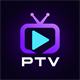
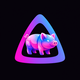
fix: finalize Phase 2 focus and branding

diff --git a/src/styles/global.css b/src/styles/global.css
@@ -9,8 +9,9 @@
   --ptv-text-secondary: #d8d0e9;
   --ptv-text-muted: #a99fbc;
   --ptv-purple: #8b5cf6;
+  --ptv-pink: #f052ad;
   --ptv-focus-violet: #c4a7ff;
-  --ptv-focus-cyan: #61dcff;
+  --ptv-focus-pink: #ff77c8;
   --ptv-success: #68e2ac;
   --ptv-warning: #ffd37a;
   --ptv-error: #ff969f;
@@ -91,9 +92,9 @@ button:disabled,
 .ptv-focusable.is-focused {
   outline: var(--ptv-focus-ring) solid var(--ptv-focus-violet);
   outline-offset: 3px;
-  border-color: var(--ptv-focus-cyan);
+  border-color: var(--ptv-focus-pink);
   background: rgba(117, 74, 212, 0.38);
-  box-shadow: 0 0 0 1px rgba(97, 220, 255, 0.45), 0 10px 28px rgba(77, 38, 140, 0.45);
+  box-shadow: 0 0 0 1px rgba(255, 119, 200, 0.45), 0 10px 28px rgba(77, 38, 140, 0.45);
   transform: scale(var(--ptv-focus-scale));
   z-index: 8;
 }
@@ -104,15 +105,15 @@ input:focus-visible,
 select:focus-visible {
   outline: var(--ptv-focus-ring) solid var(--ptv-focus-violet);
   outline-offset: 3px;
-  border-color: var(--ptv-focus-cyan);
-  box-shadow: 0 0 0 1px rgba(97, 220, 255, 0.45), 0 10px 28px rgba(77, 38, 140, 0.45);
+  border-color: var(--ptv-focus-pink);
+  box-shadow: 0 0 0 1px rgba(255, 119, 200, 0.45), 0 10px 28px rgba(77, 38, 140, 0.45);
   transform: scale(var(--ptv-focus-scale));
   z-index: 8;
 }
 
 .ptv-primary-action {
   border-color: rgba(212, 193, 255, 0.7);
-  background: linear-gradient(135deg, #8055e5, #6540bd);
+  background: linear-gradient(135deg, var(--ptv-purple), var(--ptv-pink));
   font-weight: 700;
 }
 
@@ -148,21 +149,19 @@ select:focus-visible {
   width: max-content;
 }
 
-.ptv-brand__play {
-  width: 0;
-  height: 0;
+.ptv-brand__logo {
+  width: 58px;
+  height: 58px;
   margin-right: 13px;
-  border-top: 14px solid transparent;
-  border-bottom: 14px solid transparent;
-  border-left: 22px solid var(--ptv-focus-cyan);
-  filter: drop-shadow(0 0 8px rgba(97, 220, 255, 0.38));
+  object-fit: contain;
+  filter: drop-shadow(0 0 9px rgba(255, 119, 200, 0.3));
 }
 
 .ptv-brand h1 {
   margin: 0;
-  font-size: 34px;
+  font-size: 30px;
   line-height: 1;
-  letter-spacing: 0.11em;
+  letter-spacing: 0.035em;
 }
 
 .ptv-topbar__nav {
@@ -200,7 +199,7 @@ select:focus-visible {
 .ptv-profile.is-current {
   color: var(--ptv-text-primary);
   background: rgba(139, 92, 246, 0.18);
-  box-shadow: inset 0 -3px 0 var(--ptv-focus-cyan);
+  box-shadow: inset 0 -3px 0 var(--ptv-focus-pink);
 }
 
 .ptv-topbar__utilities {
@@ -218,7 +217,7 @@ select:focus-visible {
   min-width: 52px;
   padding: 0;
   border-radius: 50%;
-  background: linear-gradient(135deg, rgba(97, 220, 255, 0.22), rgba(139, 92, 246, 0.42));
+  background: linear-gradient(135deg, rgba(139, 92, 246, 0.42), rgba(240, 82, 173, 0.34));
   font-weight: 800;
 }
 
@@ -257,7 +256,7 @@ select:focus-visible {
 }
 
 .ptv-eyebrow {
-  color: var(--ptv-focus-cyan);
+  color: var(--ptv-focus-pink);
   font-size: 18px;
   font-weight: 700;
   letter-spacing: 0.14em;
@@ -396,7 +395,7 @@ img.ptv-hero__art {
 .ptv-hero__art--fallback,
 .ptv-hero--loading {
   background:
-    radial-gradient(circle at 78% 32%, rgba(97, 220, 255, 0.15), rgba(97, 220, 255, 0) 28%),
+    radial-gradient(circle at 78% 32%, rgba(240, 82, 173, 0.16), rgba(240, 82, 173, 0) 28%),
     linear-gradient(120deg, #24133f, #0d0918 68%);
 }
 
@@ -593,8 +592,8 @@ img.ptv-hero__art {
 .ptv-card-placeholder {
   position: relative;
   background:
-    linear-gradient(145deg, rgba(97, 220, 255, 0.12), rgba(97, 220, 255, 0) 45%),
-    linear-gradient(135deg, #25173e, #3a2158 54%, #171025);
+    linear-gradient(145deg, rgba(240, 82, 173, 0.16), rgba(240, 82, 173, 0) 45%),
+    linear-gradient(135deg, #25173e, #55204e 54%, #171025);
 }
 
 .ptv-card-placeholder::after {
@@ -625,7 +624,7 @@ img.ptv-hero__art {
 
 .ptv-card-placeholder__type {
   bottom: 16px;
-  color: var(--ptv-focus-cyan);
+  color: var(--ptv-focus-pink);
   font-size: 16px;
   font-weight: 700;
   letter-spacing: 0.12em;
@@ -688,7 +687,7 @@ img.ptv-hero__art {
   display: block;
   height: 100%;
   border-radius: inherit;
-  background: linear-gradient(90deg, var(--ptv-purple), var(--ptv-focus-cyan));
+  background: linear-gradient(90deg, var(--ptv-purple), var(--ptv-pink));
 }
 
 .ptv-skeleton-row,
@@ -775,7 +774,7 @@ img.ptv-details__backdrop {
 
 .ptv-details__backdrop--fallback {
   background:
-    radial-gradient(circle at 76% 24%, rgba(97, 220, 255, 0.12), rgba(97, 220, 255, 0) 25%),
+    radial-gradient(circle at 76% 24%, rgba(240, 82, 173, 0.14), rgba(240, 82, 173, 0) 25%),
     linear-gradient(135deg, #25143f, #0c0816 66%);
 }
 
@@ -826,7 +825,7 @@ img.ptv-details__backdrop {
 }
 
 .ptv-image-placeholder span {
-  color: var(--ptv-focus-cyan);
+  color: var(--ptv-focus-pink);
   font-size: 34px;
   font-weight: 800;
   letter-spacing: 0.15em;
@@ -858,7 +857,7 @@ img.ptv-details__backdrop {
 }
 
 .ptv-details__genres {
-  color: var(--ptv-focus-cyan);
+  color: var(--ptv-focus-pink);
   font-size: 18px;
 }
 
@@ -925,9 +924,9 @@ img.ptv-details__backdrop {
 .ptv-filter-bar button.is-selected,
 .ptv-settings__categories button.is-selected,
 .ptv-diagnostics__tabs button.is-selected {
-  border-color: rgba(97, 220, 255, 0.55);
+  border-color: rgba(255, 119, 200, 0.58);
   background: rgba(139, 92, 246, 0.24);
-  box-shadow: inset 4px 0 0 var(--ptv-focus-cyan);
+  box-shadow: inset 4px 0 0 var(--ptv-focus-pink);
 }
 
 .ptv-episode-line__heading {
@@ -1223,7 +1222,7 @@ img.ptv-details__backdrop {
   place-items: center;
   margin-right: 22px;
   border-radius: 50%;
-  background: linear-gradient(135deg, var(--ptv-purple), #347eaa);
+  background: linear-gradient(135deg, var(--ptv-purple), var(--ptv-pink));
   font-size: 32px;
   font-weight: 800;
 }
@@ -1258,7 +1257,7 @@ img.ptv-details__backdrop {
 }
 
 .ptv-setting-controls button strong {
-  color: var(--ptv-focus-cyan);
+  color: var(--ptv-focus-pink);
 }
 
 .ptv-setting-note {
@@ -1380,7 +1379,7 @@ img.ptv-details__backdrop {
 
 .ptv-playback__progress-fill {
   height: 100%;
-  background: linear-gradient(90deg, var(--ptv-purple), var(--ptv-focus-cyan));
+  background: linear-gradient(90deg, var(--ptv-purple), var(--ptv-pink));
 }
 
 .ptv-diagnostics {
@@ -1472,7 +1471,7 @@ img.ptv-details__backdrop {
 
 .ptv-diagnostic-list__item {
   margin: 7px 0;
-  border-left: 2px solid rgba(97, 220, 255, 0.3);
+  border-left: 2px solid rgba(255, 119, 200, 0.32);
   padding-left: 12px;
 }
 

diff --git a/tests/integration/startup-and-flows.integration.test.tsx b/tests/integration/startup-and-flows.integration.test.tsx
@@ -1,5 +1,5 @@
 import React from 'react';
-import { act, cleanup, fireEvent, render, screen, waitFor } from '@testing-library/react';
+import { act, cleanup, fireEvent, render, screen, waitFor, within } from '@testing-library/react';
 import { afterEach, beforeEach, describe, expect, it, vi } from 'vitest';
 import { App } from '../../src/app/App';
 import {
@@ -748,6 +748,32 @@ describe('integration: Quick Connect, navigation, and sign-out', () => {
       expect(output).toContain('"sessionPresent": false');
       expect(output).toContain('"inMemorySessionPresent": false');
       expect(output).toContain('"tokenPresent": false');
+    });
+  });
+
+  it('records the initial Home load in diagnostics before any route return', async () => {
+    seedSession();
+    mockGetResume.mockResolvedValue({ Items: [{ Id: 'movie-1', Name: 'Featured Movie', Type: 'Movie' }] });
+    render(<App />);
+
+    await screen.findByRole('button', { name: 'Featured Movie' });
+    await waitFor(() => {
+      expect(mockGetResume).toHaveBeenCalledTimes(1);
+      expect(mockGetNextUp).toHaveBeenCalledTimes(1);
+      expect(mockGetRecentlyAdded).toHaveBeenCalledTimes(2);
+    });
+
+    await openDiagnostics();
+    const diagnosticTabs = screen.getByRole('navigation', { name: 'Diagnostic categories' });
+    fireEvent.click(within(diagnosticTabs).getByRole('button', { name: 'Home' }));
+    fireEvent.click(screen.getByRole('button', { name: 'Raw JSON' }));
+
+    await waitFor(() => {
+      const output = document.querySelector('.ptv-diagnostics__output')?.textContent ?? '';
+      expect(output).toContain('"latestAttempt": {');
+      expect(output).toContain('"maxActiveRequests": 3');
+      expect(output).toContain('"status": "route-hidden"');
+      expect(output.match(/"outcome": "success"/g)).toHaveLength(8);
     });
   });
 

diff --git a/tests/focusManager.test.ts b/tests/focusManager.test.ts
@@ -217,6 +217,55 @@ describe('FocusManager', () => {
     expect(document.activeElement).toBe(play);
   });
 
+  it('keeps a pending route fallback ahead of unrelated same-route registrations', () => {
+    const manager = new FocusManager();
+    const shellHome = createFocusNode('shell-home', {
+      left: 0,
+      top: 0,
+      right: 120,
+      bottom: 60,
+      width: 120,
+      height: 60
+    });
+    const detailsPrimary = createFocusNode('details-primary', {
+      left: 0,
+      top: 100,
+      right: 180,
+      bottom: 180,
+      width: 180,
+      height: 80
+    });
+
+    manager.setActiveRoute('details:series-1', {
+      fallbackFocusId: 'details-primary',
+      focusFirstIfUnremembered: false
+    });
+    manager.register({
+      id: 'shell-home',
+      routeId: 'details:series-1',
+      ref: shellHome
+    });
+
+    expect(manager.focusId).toBeNull();
+    expect(document.activeElement).not.toBe(shellHome);
+
+    manager.register({
+      id: 'details-primary',
+      routeId: 'details:series-1',
+      ref: detailsPrimary
+    });
+
+    expect(manager.focusId).toBe('details-primary');
+    expect(document.activeElement).toBe(detailsPrimary);
+    expect(manager.lastTransition).toMatchObject({
+      routeId: 'details:series-1',
+      previousFocusId: null,
+      nextFocusId: 'details-primary',
+      reason: 'route-fallback',
+      fallbackUsed: true
+    });
+  });
+
   it('emits diagnostics metadata for directional input', () => {
     const manager = new FocusManager();
     const left = createFocusNode('left', { left: 0, top: 0, right: 100, bottom: 80, width: 100, height: 80 });

diff --git a/tests/phase2ShellAndGeometry.test.tsx b/tests/phase2ShellAndGeometry.test.tsx
@@ -93,7 +93,8 @@ describe('Phase 2 authenticated shell contract', () => {
 
     const navigation = await screen.findByRole('navigation', { name: 'Primary' });
     expect(navigation).toBeTruthy();
-    expect(screen.getByRole('heading', { name: 'PiggieTV' }).textContent).toBe('PTV');
+    expect(screen.getByRole('heading', { name: 'PiggieTV' }).textContent).toBe('PiggieTV');
+    expect(document.querySelector('.ptv-brand__logo')?.getAttribute('src')).toBe('icon-phase2.png');
     expect(screen.queryByRole('button', { name: /diagnostics/i })).toBeNull();
 
     const home = screen.getByRole('button', { name: 'Home' });

diff --git a/tests/legacyCss.test.ts b/tests/legacyCss.test.ts
@@ -23,4 +23,11 @@ describe('Chrome 68 CSS compatibility', () => {
   it('uses physical offsets instead of the unsupported inset shorthand', () => {
     expect(css).not.toMatch(/(?:^|[;{])\s*inset\s*:/m);
   });
+
+  it('uses the purple-to-pink accent fade without the retired blue accent', () => {
+    expect(css).toMatch(/--ptv-purple:\s*#[0-9a-f]{6};/i);
+    expect(css).toMatch(/--ptv-pink:\s*#[0-9a-f]{6};/i);
+    expect(css).toMatch(/linear-gradient\(90deg,\s*var\(--ptv-purple\),\s*var\(--ptv-pink\)\)/);
+    expect(css).not.toMatch(/focus-cyan|#61dcff|rgba\(97,\s*220,\s*255/i);
+  });
 });

diff --git a/src/components/LayoutShell.tsx b/src/components/LayoutShell.tsx
@@ -52,8 +52,8 @@ export function LayoutShell({ children, title, onSettings, onBack, currentSectio
     <div className="ptv-shell">
       <header className="ptv-topbar" aria-label="PTV application navigation">
         <div className="ptv-brand" aria-label="PiggieTV">
-          <span className="ptv-brand__play" aria-hidden="true" />
-          <h1 aria-label="PiggieTV">PTV</h1>
+          <img className="ptv-brand__logo" src="icon-phase2.png" alt="" aria-hidden="true" draggable={false} />
+          <h1 aria-label="PiggieTV">PiggieTV</h1>
         </div>
 
         {authenticated ? (

diff --git a/src/screens/home/HomeScreen.tsx b/src/screens/home/HomeScreen.tsx
@@ -226,6 +226,7 @@ export function HomeScreen() {
     let activeRequests = 0;
     const startedAt = typeof performance !== 'undefined' ? performance.now() : Date.now();
     const elapsed = () => Math.max(0, (typeof performance !== 'undefined' ? performance.now() : Date.now()) - startedAt);
+    services.diagnostics.synchronizeHomePerformanceSession(homeCacheKey);
     const attemptId = services.diagnostics.beginHomePerformanceAttempt();
     attemptIdRef.current = attemptId;
     imageFailuresRef.current = 0;

diff --git a/src/focus/FocusManager.ts b/src/focus/FocusManager.ts
@@ -639,7 +639,8 @@ export class FocusManager {
   private isWaitingForAnotherNode(node: FocusNodeRegistration) {
     const pending = this.pendingRouteRestore;
     if (!pending || !this.nodeMatchesRoute(node, pending.routeId)) return false;
-    return Boolean(pending.targetId && pending.targetId !== node.id);
+    const requestedId = pending.targetId ?? pending.fallbackFocusId;
+    return Boolean(requestedId && requestedId !== node.id);
   }
 
   private pushHistory(id: string) {
